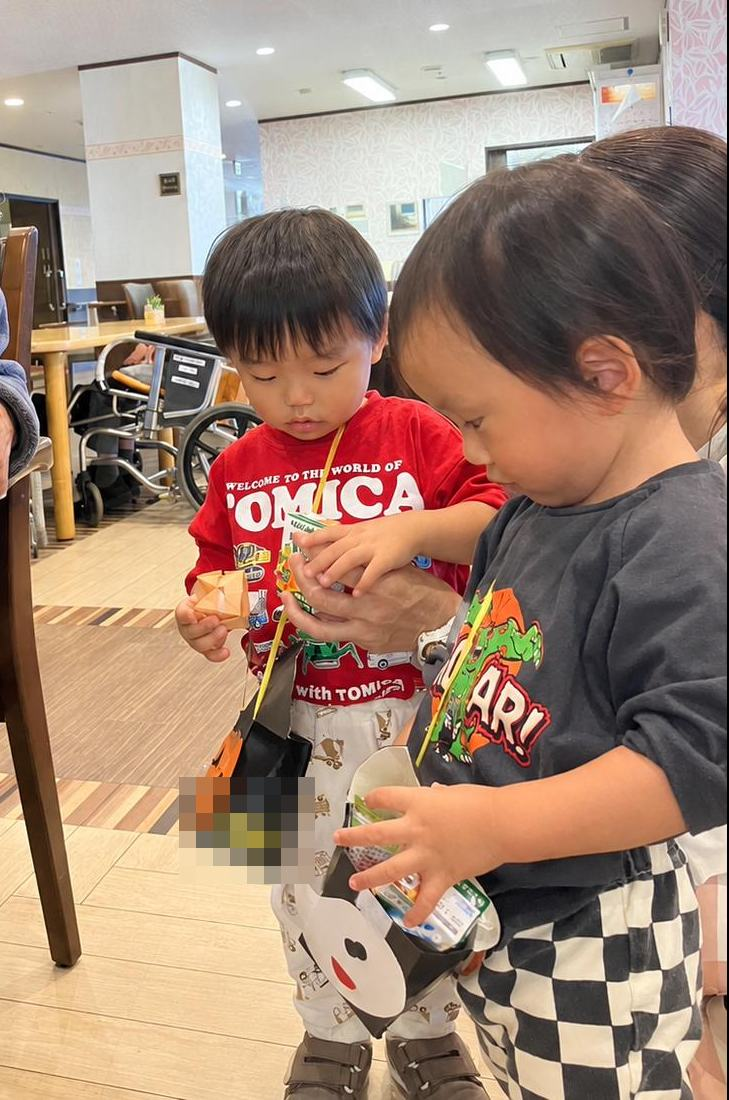
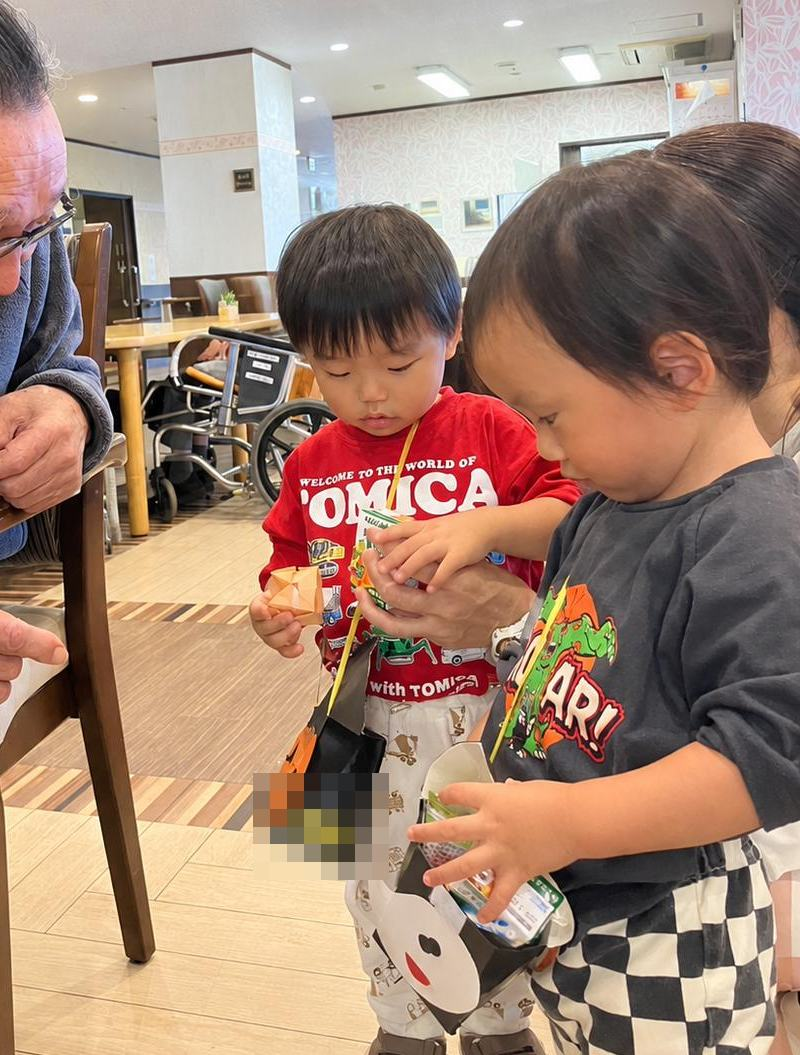
Add files via upload

diff --git a/life.html b/life.html
@@ -12,7 +12,7 @@
 <link rel="preconnect" href="https://fonts.gstatic.com" crossorigin>
 <link href="https://fonts.googleapis.com/css2?family=Zen+Maru+Gothic:wght@500;700&display=swap" rel="stylesheet">
 <link href="https://fonts.googleapis.com/css2?family=Zen+Kurenaido&display=swap&text=%E3%81%98%E3%81%BF%E3%82%82%E3%82%B9%E3%83%8A%E3%83%AA%E3%83%BC" rel="stylesheet">
-<link rel="stylesheet" href="style.css?v=202610301538">
+<link rel="stylesheet" href="style.css?v=202610301600">
 </head>
 <body>
 <!--
@@ -96,7 +96,7 @@
     <p class="lede">0・1・2歳の子どもたちが、無理のないリズムで過ごせるようにしています。</p>
     <!-- ▼差し替え：園から「一日の流れ（時刻と内容）」と「月ごとの行事」が届いたら、さくらナースリーと同じ形の表にして入れます -->
     <div class="prep"><strong>一日の流れ・年間行事の表は、ただいま準備中です。</strong><br>畑での収穫や製作あそび、お散歩、ハロウィンなど、季節ごとの体験を大切にしています。くわしくは、見学のときにおたずねください。</div>
-    <div class="polas" style="margin-top:2em"><figure class="pola"><img src="harvest2.jpg" style="object-position:45% 55%" alt="畑の野菜にふれる子どもたち" loading="lazy"><figcaption>野菜の収穫</figcaption></figure><figure class="pola"><img src="craft.jpg" style="object-position:72% 30%" alt="ひまわりの絵を作る製作あそび" loading="lazy"><figcaption>製作あそび</figcaption></figure><figure class="pola"><img src="elder.jpg" style="object-position:40% 40%" alt="保育者と手をつなぐ子ども" loading="lazy"><figcaption>ふれあいのひととき</figcaption></figure><figure class="pola"><img src="halloween.jpg" style="object-position:55% 25%" alt="ハロウィンのお菓子をもらう子どもたち" loading="lazy"><figcaption>ハロウィン</figcaption></figure><figure class="pola"><img src="tree.jpg" style="object-position:45% 50%" alt="お散歩で木の枝に手をのばす子ども" loading="lazy"><figcaption>お散歩</figcaption></figure><figure class="pola"><img src="nap.jpg" style="object-position:50% 50%" alt="お昼寝の時間" loading="lazy"><figcaption>お昼寝</figcaption></figure></div>
+    <div class="polas" style="margin-top:2em"><figure class="pola"><img src="harvest2.jpg" style="object-position:45% 55%" alt="畑の野菜にふれる子どもたち" loading="lazy"><figcaption>野菜の収穫</figcaption></figure><figure class="pola"><img src="craft.jpg" style="object-position:72% 30%" alt="ひまわりの絵を作る製作あそび" loading="lazy"><figcaption>製作あそび</figcaption></figure><figure class="pola"><img src="elder.jpg" style="object-position:55% 55%" alt="おばあちゃんとふれあう子ども" loading="lazy"><figcaption>おじいちゃん・おばあちゃんと</figcaption></figure><figure class="pola"><img src="halloween.jpg" style="object-position:50% 30%" alt="ハロウィンのお菓子をもらう子どもたち" loading="lazy"><figcaption>ハロウィン</figcaption></figure><figure class="pola"><img src="tree.jpg" style="object-position:45% 50%" alt="お散歩で木の枝に手をのばす子ども" loading="lazy"><figcaption>お散歩</figcaption></figure><figure class="pola"><img src="nap.jpg" style="object-position:50% 50%" alt="お昼寝の時間" loading="lazy"><figcaption>お昼寝</figcaption></figure></div>
     <a class="insta" id="btn-insta" href="https://www.instagram.com/momi_jiiiii/" target="_blank" rel="noopener">
       <span class="insta__ico" aria-hidden="true"><svg viewBox="0 0 24 24" fill="none" stroke="#fff" stroke-width="2"><rect x="3" y="3" width="18" height="18" rx="5"/><circle cx="12" cy="12" r="4"/><circle cx="17.5" cy="6.5" r="1" fill="#fff" stroke="none"/></svg></span>
       <span><strong>もみじナースリーのInstagram</strong><small>@momi_jiiiii　日々のようすを発信しています</small></span>
@@ -106,7 +106,7 @@
 <!-- ===== 園のようす（写真が流れる帯） ===== -->
 <section class="strip strip--nocap" aria-label="園のようす">
   <h2 class="strip__ttl">園のようす</h2>
-  <div class="strip__track"><figure class="strip__item"><img src="harvest1.jpg" style="object-position:35% 45%" alt="畑で野菜を収穫する子どもと保育者" loading="lazy"></figure><figure class="strip__item"><img src="craft.jpg" style="object-position:72% 30%" alt="ひまわりの絵を作る製作あそび" loading="lazy"></figure><figure class="strip__item"><img src="balloon.jpg" style="object-position:45% 70%" alt="バルーンの下で遊ぶ子どもたち" loading="lazy"></figure><figure class="strip__item"><img src="cars.jpg" style="object-position:50% 50%" alt="くるまのおもちゃで遊ぶ子どもたち" loading="lazy"></figure><figure class="strip__item"><img src="lunch.jpg" style="object-position:45% 22%" alt="給食を食べる子ども" loading="lazy"></figure><figure class="strip__item"><img src="slide.jpg" style="object-position:50% 42%" alt="すべり台で遊ぶ子どもたち" loading="lazy"></figure><figure class="strip__item"><img src="runin.jpg" style="object-position:50% 48%" alt="保育室をかけっこする子どもたち" loading="lazy"></figure><figure class="strip__item"><img src="tree.jpg" style="object-position:45% 50%" alt="お散歩で木の枝に手をのばす子ども" loading="lazy"></figure><figure class="strip__item"><img src="toys.jpg" style="object-position:50% 22%" alt="おもちゃで遊ぶ子どもたち" loading="lazy"></figure><figure class="strip__item"><img src="walk.jpg" style="object-position:45% 45%" alt="保育者と手をつないでお散歩" loading="lazy"></figure><figure class="strip__item"><img src="runout.jpg" style="object-position:50% 38%" alt="広場をかけっこする子どもたち" loading="lazy"></figure><figure class="strip__item"><img src="halloween.jpg" style="object-position:55% 25%" alt="ハロウィンのお菓子をもらう子どもたち" loading="lazy"></figure><figure class="strip__item"><img src="nap.jpg" style="object-position:50% 50%" alt="お昼寝の時間" loading="lazy"></figure><figure class="strip__item"><img src="elder.jpg" style="object-position:40% 40%" alt="保育者と手をつなぐ子ども" loading="lazy"></figure><figure class="strip__item"><img src="harvest2.jpg" style="object-position:45% 55%" alt="畑の野菜にふれる子どもたち" loading="lazy"></figure><div class="strip__dup" aria-hidden="true"><figure class="strip__item"><img src="harvest1.jpg" style="object-position:35% 45%" alt="" aria-hidden="true" loading="lazy"></figure><figure class="strip__item"><img src="craft.jpg" style="object-position:72% 30%" alt="" aria-hidden="true" loading="lazy"></figure><figure class="strip__item"><img src="balloon.jpg" style="object-position:45% 70%" alt="" aria-hidden="true" loading="lazy"></figure><figure class="strip__item"><img src="cars.jpg" style="object-position:50% 50%" alt="" aria-hidden="true" loading="lazy"></figure><figure class="strip__item"><img src="lunch.jpg" style="object-position:45% 22%" alt="" aria-hidden="true" loading="lazy"></figure><figure class="strip__item"><img src="slide.jpg" style="object-position:50% 42%" alt="" aria-hidden="true" loading="lazy"></figure><figure class="strip__item"><img src="runin.jpg" style="object-position:50% 48%" alt="" aria-hidden="true" loading="lazy"></figure><figure class="strip__item"><img src="tree.jpg" style="object-position:45% 50%" alt="" aria-hidden="true" loading="lazy"></figure><figure class="strip__item"><img src="toys.jpg" style="object-position:50% 22%" alt="" aria-hidden="true" loading="lazy"></figure><figure class="strip__item"><img src="walk.jpg" style="object-position:45% 45%" alt="" aria-hidden="true" loading="lazy"></figure><figure class="strip__item"><img src="runout.jpg" style="object-position:50% 38%" alt="" aria-hidden="true" loading="lazy"></figure><figure class="strip__item"><img src="halloween.jpg" style="object-position:55% 25%" alt="" aria-hidden="true" loading="lazy"></figure><figure class="strip__item"><img src="nap.jpg" style="object-position:50% 50%" alt="" aria-hidden="true" loading="lazy"></figure><figure class="strip__item"><img src="elder.jpg" style="object-position:40% 40%" alt="" aria-hidden="true" loading="lazy"></figure><figure class="strip__item"><img src="harvest2.jpg" style="object-position:45% 55%" alt="" aria-hidden="true" loading="lazy"></figure></div></div>
+  <div class="strip__track"><figure class="strip__item"><img src="harvest1.jpg" style="object-position:35% 45%" alt="畑で野菜を収穫する子どもと保育者" loading="lazy"></figure><figure class="strip__item"><img src="craft.jpg" style="object-position:72% 30%" alt="ひまわりの絵を作る製作あそび" loading="lazy"></figure><figure class="strip__item"><img src="balloon.jpg" style="object-position:45% 70%" alt="バルーンの下で遊ぶ子どもたち" loading="lazy"></figure><figure class="strip__item"><img src="cars.jpg" style="object-position:50% 50%" alt="くるまのおもちゃで遊ぶ子どもたち" loading="lazy"></figure><figure class="strip__item"><img src="lunch.jpg" style="object-position:45% 22%" alt="給食を食べる子ども" loading="lazy"></figure><figure class="strip__item"><img src="slide.jpg" style="object-position:50% 42%" alt="すべり台で遊ぶ子どもたち" loading="lazy"></figure><figure class="strip__item"><img src="runin.jpg" style="object-position:50% 48%" alt="保育室をかけっこする子どもたち" loading="lazy"></figure><figure class="strip__item"><img src="tree.jpg" style="object-position:45% 50%" alt="お散歩で木の枝に手をのばす子ども" loading="lazy"></figure><figure class="strip__item"><img src="toys.jpg" style="object-position:50% 22%" alt="おもちゃで遊ぶ子どもたち" loading="lazy"></figure><figure class="strip__item"><img src="walk.jpg" style="object-position:45% 45%" alt="保育者と手をつないでお散歩" loading="lazy"></figure><figure class="strip__item"><img src="runout.jpg" style="object-position:50% 38%" alt="広場をかけっこする子どもたち" loading="lazy"></figure><figure class="strip__item"><img src="halloween.jpg" style="object-position:50% 30%" alt="ハロウィンのお菓子をもらう子どもたち" loading="lazy"></figure><figure class="strip__item"><img src="nap.jpg" style="object-position:50% 50%" alt="お昼寝の時間" loading="lazy"></figure><figure class="strip__item"><img src="elder.jpg" style="object-position:55% 55%" alt="おばあちゃんとふれあう子ども" loading="lazy"></figure><figure class="strip__item"><img src="harvest2.jpg" style="object-position:45% 55%" alt="畑の野菜にふれる子どもたち" loading="lazy"></figure><div class="strip__dup" aria-hidden="true"><figure class="strip__item"><img src="harvest1.jpg" style="object-position:35% 45%" alt="" aria-hidden="true" loading="lazy"></figure><figure class="strip__item"><img src="craft.jpg" style="object-position:72% 30%" alt="" aria-hidden="true" loading="lazy"></figure><figure class="strip__item"><img src="balloon.jpg" style="object-position:45% 70%" alt="" aria-hidden="true" loading="lazy"></figure><figure class="strip__item"><img src="cars.jpg" style="object-position:50% 50%" alt="" aria-hidden="true" loading="lazy"></figure><figure class="strip__item"><img src="lunch.jpg" style="object-position:45% 22%" alt="" aria-hidden="true" loading="lazy"></figure><figure class="strip__item"><img src="slide.jpg" style="object-position:50% 42%" alt="" aria-hidden="true" loading="lazy"></figure><figure class="strip__item"><img src="runin.jpg" style="object-position:50% 48%" alt="" aria-hidden="true" loading="lazy"></figure><figure class="strip__item"><img src="tree.jpg" style="object-position:45% 50%" alt="" aria-hidden="true" loading="lazy"></figure><figure class="strip__item"><img src="toys.jpg" style="object-position:50% 22%" alt="" aria-hidden="true" loading="lazy"></figure><figure class="strip__item"><img src="walk.jpg" style="object-position:45% 45%" alt="" aria-hidden="true" loading="lazy"></figure><figure class="strip__item"><img src="runout.jpg" style="object-position:50% 38%" alt="" aria-hidden="true" loading="lazy"></figure><figure class="strip__item"><img src="halloween.jpg" style="object-position:50% 30%" alt="" aria-hidden="true" loading="lazy"></figure><figure class="strip__item"><img src="nap.jpg" style="object-position:50% 50%" alt="" aria-hidden="true" loading="lazy"></figure><figure class="strip__item"><img src="elder.jpg" style="object-position:55% 55%" alt="" aria-hidden="true" loading="lazy"></figure><figure class="strip__item"><img src="harvest2.jpg" style="object-position:45% 55%" alt="" aria-hidden="true" loading="lazy"></figure></div></div>
 </section>
 <!-- ===== 最後のご相談 ===== -->
 <section class="cta" aria-labelledby="cta-title">

diff --git a/news.html b/news.html
@@ -12,7 +12,7 @@
 <link rel="preconnect" href="https://fonts.gstatic.com" crossorigin>
 <link href="https://fonts.googleapis.com/css2?family=Zen+Maru+Gothic:wght@500;700&display=swap" rel="stylesheet">
 <link href="https://fonts.googleapis.com/css2?family=Zen+Kurenaido&display=swap&text=%E3%81%98%E3%81%BF%E3%82%82%E3%82%B9%E3%83%8A%E3%83%AA%E3%83%BC" rel="stylesheet">
-<link rel="stylesheet" href="style.css?v=202610301538">
+<link rel="stylesheet" href="style.css?v=202610301600">
 </head>
 <body>
 <!--
@@ -53,7 +53,7 @@
       <p class="phero__lead">園の見学や入園のご案内など、もみじナースリーからのお知らせです。</p>
     </div>
     <div class="phero__photo">
-      <figure class="pic pic--main"><img src="halloween.jpg" style="object-position:55% 25%" alt="ハロウィンのお菓子をもらう子どもたち" width="1200" height="800"></figure>
+      <figure class="pic pic--main"><img src="halloween.jpg" style="object-position:50% 30%" alt="ハロウィンのお菓子をもらう子どもたち" width="1200" height="800"></figure>
       <figure class="pic pic--sub"><img src="runout.jpg" style="object-position:50% 38%" alt="広場をかけっこする子どもたち" loading="lazy"></figure>
     </div>
   </div>
@@ -107,7 +107,7 @@
 <!-- ===== 園のようす（写真が流れる帯） ===== -->
 <section class="strip strip--nocap" aria-label="園のようす">
   <h2 class="strip__ttl">園のようす</h2>
-  <div class="strip__track"><figure class="strip__item"><img src="harvest1.jpg" style="object-position:35% 45%" alt="畑で野菜を収穫する子どもと保育者" loading="lazy"></figure><figure class="strip__item"><img src="craft.jpg" style="object-position:72% 30%" alt="ひまわりの絵を作る製作あそび" loading="lazy"></figure><figure class="strip__item"><img src="balloon.jpg" style="object-position:45% 70%" alt="バルーンの下で遊ぶ子どもたち" loading="lazy"></figure><figure class="strip__item"><img src="cars.jpg" style="object-position:50% 50%" alt="くるまのおもちゃで遊ぶ子どもたち" loading="lazy"></figure><figure class="strip__item"><img src="lunch.jpg" style="object-position:45% 22%" alt="給食を食べる子ども" loading="lazy"></figure><figure class="strip__item"><img src="slide.jpg" style="object-position:50% 42%" alt="すべり台で遊ぶ子どもたち" loading="lazy"></figure><figure class="strip__item"><img src="runin.jpg" style="object-position:50% 48%" alt="保育室をかけっこする子どもたち" loading="lazy"></figure><figure class="strip__item"><img src="tree.jpg" style="object-position:45% 50%" alt="お散歩で木の枝に手をのばす子ども" loading="lazy"></figure><figure class="strip__item"><img src="toys.jpg" style="object-position:50% 22%" alt="おもちゃで遊ぶ子どもたち" loading="lazy"></figure><figure class="strip__item"><img src="walk.jpg" style="object-position:45% 45%" alt="保育者と手をつないでお散歩" loading="lazy"></figure><figure class="strip__item"><img src="runout.jpg" style="object-position:50% 38%" alt="広場をかけっこする子どもたち" loading="lazy"></figure><figure class="strip__item"><img src="halloween.jpg" style="object-position:55% 25%" alt="ハロウィンのお菓子をもらう子どもたち" loading="lazy"></figure><figure class="strip__item"><img src="nap.jpg" style="object-position:50% 50%" alt="お昼寝の時間" loading="lazy"></figure><figure class="strip__item"><img src="elder.jpg" style="object-position:40% 40%" alt="保育者と手をつなぐ子ども" loading="lazy"></figure><figure class="strip__item"><img src="harvest2.jpg" style="object-position:45% 55%" alt="畑の野菜にふれる子どもたち" loading="lazy"></figure><div class="strip__dup" aria-hidden="true"><figure class="strip__item"><img src="harvest1.jpg" style="object-position:35% 45%" alt="" aria-hidden="true" loading="lazy"></figure><figure class="strip__item"><img src="craft.jpg" style="object-position:72% 30%" alt="" aria-hidden="true" loading="lazy"></figure><figure class="strip__item"><img src="balloon.jpg" style="object-position:45% 70%" alt="" aria-hidden="true" loading="lazy"></figure><figure class="strip__item"><img src="cars.jpg" style="object-position:50% 50%" alt="" aria-hidden="true" loading="lazy"></figure><figure class="strip__item"><img src="lunch.jpg" style="object-position:45% 22%" alt="" aria-hidden="true" loading="lazy"></figure><figure class="strip__item"><img src="slide.jpg" style="object-position:50% 42%" alt="" aria-hidden="true" loading="lazy"></figure><figure class="strip__item"><img src="runin.jpg" style="object-position:50% 48%" alt="" aria-hidden="true" loading="lazy"></figure><figure class="strip__item"><img src="tree.jpg" style="object-position:45% 50%" alt="" aria-hidden="true" loading="lazy"></figure><figure class="strip__item"><img src="toys.jpg" style="object-position:50% 22%" alt="" aria-hidden="true" loading="lazy"></figure><figure class="strip__item"><img src="walk.jpg" style="object-position:45% 45%" alt="" aria-hidden="true" loading="lazy"></figure><figure class="strip__item"><img src="runout.jpg" style="object-position:50% 38%" alt="" aria-hidden="true" loading="lazy"></figure><figure class="strip__item"><img src="halloween.jpg" style="object-position:55% 25%" alt="" aria-hidden="true" loading="lazy"></figure><figure class="strip__item"><img src="nap.jpg" style="object-position:50% 50%" alt="" aria-hidden="true" loading="lazy"></figure><figure class="strip__item"><img src="elder.jpg" style="object-position:40% 40%" alt="" aria-hidden="true" loading="lazy"></figure><figure class="strip__item"><img src="harvest2.jpg" style="object-position:45% 55%" alt="" aria-hidden="true" loading="lazy"></figure></div></div>
+  <div class="strip__track"><figure class="strip__item"><img src="harvest1.jpg" style="object-position:35% 45%" alt="畑で野菜を収穫する子どもと保育者" loading="lazy"></figure><figure class="strip__item"><img src="craft.jpg" style="object-position:72% 30%" alt="ひまわりの絵を作る製作あそび" loading="lazy"></figure><figure class="strip__item"><img src="balloon.jpg" style="object-position:45% 70%" alt="バルーンの下で遊ぶ子どもたち" loading="lazy"></figure><figure class="strip__item"><img src="cars.jpg" style="object-position:50% 50%" alt="くるまのおもちゃで遊ぶ子どもたち" loading="lazy"></figure><figure class="strip__item"><img src="lunch.jpg" style="object-position:45% 22%" alt="給食を食べる子ども" loading="lazy"></figure><figure class="strip__item"><img src="slide.jpg" style="object-position:50% 42%" alt="すべり台で遊ぶ子どもたち" loading="lazy"></figure><figure class="strip__item"><img src="runin.jpg" style="object-position:50% 48%" alt="保育室をかけっこする子どもたち" loading="lazy"></figure><figure class="strip__item"><img src="tree.jpg" style="object-position:45% 50%" alt="お散歩で木の枝に手をのばす子ども" loading="lazy"></figure><figure class="strip__item"><img src="toys.jpg" style="object-position:50% 22%" alt="おもちゃで遊ぶ子どもたち" loading="lazy"></figure><figure class="strip__item"><img src="walk.jpg" style="object-position:45% 45%" alt="保育者と手をつないでお散歩" loading="lazy"></figure><figure class="strip__item"><img src="runout.jpg" style="object-position:50% 38%" alt="広場をかけっこする子どもたち" loading="lazy"></figure><figure class="strip__item"><img src="halloween.jpg" style="object-position:50% 30%" alt="ハロウィンのお菓子をもらう子どもたち" loading="lazy"></figure><figure class="strip__item"><img src="nap.jpg" style="object-position:50% 50%" alt="お昼寝の時間" loading="lazy"></figure><figure class="strip__item"><img src="elder.jpg" style="object-position:55% 55%" alt="おばあちゃんとふれあう子ども" loading="lazy"></figure><figure class="strip__item"><img src="harvest2.jpg" style="object-position:45% 55%" alt="畑の野菜にふれる子どもたち" loading="lazy"></figure><div class="strip__dup" aria-hidden="true"><figure class="strip__item"><img src="harvest1.jpg" style="object-position:35% 45%" alt="" aria-hidden="true" loading="lazy"></figure><figure class="strip__item"><img src="craft.jpg" style="object-position:72% 30%" alt="" aria-hidden="true" loading="lazy"></figure><figure class="strip__item"><img src="balloon.jpg" style="object-position:45% 70%" alt="" aria-hidden="true" loading="lazy"></figure><figure class="strip__item"><img src="cars.jpg" style="object-position:50% 50%" alt="" aria-hidden="true" loading="lazy"></figure><figure class="strip__item"><img src="lunch.jpg" style="object-position:45% 22%" alt="" aria-hidden="true" loading="lazy"></figure><figure class="strip__item"><img src="slide.jpg" style="object-position:50% 42%" alt="" aria-hidden="true" loading="lazy"></figure><figure class="strip__item"><img src="runin.jpg" style="object-position:50% 48%" alt="" aria-hidden="true" loading="lazy"></figure><figure class="strip__item"><img src="tree.jpg" style="object-position:45% 50%" alt="" aria-hidden="true" loading="lazy"></figure><figure class="strip__item"><img src="toys.jpg" style="object-position:50% 22%" alt="" aria-hidden="true" loading="lazy"></figure><figure class="strip__item"><img src="walk.jpg" style="object-position:45% 45%" alt="" aria-hidden="true" loading="lazy"></figure><figure class="strip__item"><img src="runout.jpg" style="object-position:50% 38%" alt="" aria-hidden="true" loading="lazy"></figure><figure class="strip__item"><img src="halloween.jpg" style="object-position:50% 30%" alt="" aria-hidden="true" loading="lazy"></figure><figure class="strip__item"><img src="nap.jpg" style="object-position:50% 50%" alt="" aria-hidden="true" loading="lazy"></figure><figure class="strip__item"><img src="elder.jpg" style="object-position:55% 55%" alt="" aria-hidden="true" loading="lazy"></figure><figure class="strip__item"><img src="harvest2.jpg" style="object-position:45% 55%" alt="" aria-hidden="true" loading="lazy"></figure></div></div>
 </section>
 <!-- ===== 最後のご相談 ===== -->
 <section class="cta" aria-labelledby="cta-title">

diff --git a/index.html b/index.html
@@ -12,7 +12,7 @@
 <link rel="preconnect" href="https://fonts.gstatic.com" crossorigin>
 <link href="https://fonts.googleapis.com/css2?family=Zen+Maru+Gothic:wght@500;700&display=swap" rel="stylesheet">
 <link href="https://fonts.googleapis.com/css2?family=Zen+Kurenaido&display=swap&text=%E3%80%81%E3%80%82%E3%81%86%E3%81%8D%E3%81%8F%E3%81%95%E3%81%98%E3%81%A7%E3%81%AA%E3%81%BF%E3%82%82%E3%82%8A%E3%82%B9%E3%83%8A%E3%83%AA%E3%83%BC%E5%9C%92%E5%A4%A7%E5%AF%84%E5%B0%8F%E6%B7%BB" rel="stylesheet">
-<link rel="stylesheet" href="style.css?v=202610301538">
+<link rel="stylesheet" href="style.css?v=202610301600">
 </head>
 <body>
 <!--
@@ -162,7 +162,7 @@
 <!-- ===== 園のようす（写真が流れる帯） ===== -->
 <section class="strip strip--nocap" aria-label="園のようす">
   <h2 class="strip__ttl">園のようす</h2>
-  <div class="strip__track"><figure class="strip__item"><img src="harvest1.jpg" style="object-position:35% 45%" alt="畑で野菜を収穫する子どもと保育者" loading="lazy"></figure><figure class="strip__item"><img src="craft.jpg" style="object-position:72% 30%" alt="ひまわりの絵を作る製作あそび" loading="lazy"></figure><figure class="strip__item"><img src="balloon.jpg" style="object-position:45% 70%" alt="バルーンの下で遊ぶ子どもたち" loading="lazy"></figure><figure class="strip__item"><img src="cars.jpg" style="object-position:50% 50%" alt="くるまのおもちゃで遊ぶ子どもたち" loading="lazy"></figure><figure class="strip__item"><img src="lunch.jpg" style="object-position:45% 22%" alt="給食を食べる子ども" loading="lazy"></figure><figure class="strip__item"><img src="slide.jpg" style="object-position:50% 42%" alt="すべり台で遊ぶ子どもたち" loading="lazy"></figure><figure class="strip__item"><img src="runin.jpg" style="object-position:50% 48%" alt="保育室をかけっこする子どもたち" loading="lazy"></figure><figure class="strip__item"><img src="tree.jpg" style="object-position:45% 50%" alt="お散歩で木の枝に手をのばす子ども" loading="lazy"></figure><figure class="strip__item"><img src="toys.jpg" style="object-position:50% 22%" alt="おもちゃで遊ぶ子どもたち" loading="lazy"></figure><figure class="strip__item"><img src="walk.jpg" style="object-position:45% 45%" alt="保育者と手をつないでお散歩" loading="lazy"></figure><figure class="strip__item"><img src="runout.jpg" style="object-position:50% 38%" alt="広場をかけっこする子どもたち" loading="lazy"></figure><figure class="strip__item"><img src="halloween.jpg" style="object-position:55% 25%" alt="ハロウィンのお菓子をもらう子どもたち" loading="lazy"></figure><figure class="strip__item"><img src="nap.jpg" style="object-position:50% 50%" alt="お昼寝の時間" loading="lazy"></figure><figure class="strip__item"><img src="elder.jpg" style="object-position:40% 40%" alt="保育者と手をつなぐ子ども" loading="lazy"></figure><figure class="strip__item"><img src="harvest2.jpg" style="object-position:45% 55%" alt="畑の野菜にふれる子どもたち" loading="lazy"></figure><div class="strip__dup" aria-hidden="true"><figure class="strip__item"><img src="harvest1.jpg" style="object-position:35% 45%" alt="" aria-hidden="true" loading="lazy"></figure><figure class="strip__item"><img src="craft.jpg" style="object-position:72% 30%" alt="" aria-hidden="true" loading="lazy"></figure><figure class="strip__item"><img src="balloon.jpg" style="object-position:45% 70%" alt="" aria-hidden="true" loading="lazy"></figure><figure class="strip__item"><img src="cars.jpg" style="object-position:50% 50%" alt="" aria-hidden="true" loading="lazy"></figure><figure class="strip__item"><img src="lunch.jpg" style="object-position:45% 22%" alt="" aria-hidden="true" loading="lazy"></figure><figure class="strip__item"><img src="slide.jpg" style="object-position:50% 42%" alt="" aria-hidden="true" loading="lazy"></figure><figure class="strip__item"><img src="runin.jpg" style="object-position:50% 48%" alt="" aria-hidden="true" loading="lazy"></figure><figure class="strip__item"><img src="tree.jpg" style="object-position:45% 50%" alt="" aria-hidden="true" loading="lazy"></figure><figure class="strip__item"><img src="toys.jpg" style="object-position:50% 22%" alt="" aria-hidden="true" loading="lazy"></figure><figure class="strip__item"><img src="walk.jpg" style="object-position:45% 45%" alt="" aria-hidden="true" loading="lazy"></figure><figure class="strip__item"><img src="runout.jpg" style="object-position:50% 38%" alt="" aria-hidden="true" loading="lazy"></figure><figure class="strip__item"><img src="halloween.jpg" style="object-position:55% 25%" alt="" aria-hidden="true" loading="lazy"></figure><figure class="strip__item"><img src="nap.jpg" style="object-position:50% 50%" alt="" aria-hidden="true" loading="lazy"></figure><figure class="strip__item"><img src="elder.jpg" style="object-position:40% 40%" alt="" aria-hidden="true" loading="lazy"></figure><figure class="strip__item"><img src="harvest2.jpg" style="object-position:45% 55%" alt="" aria-hidden="true" loading="lazy"></figure></div></div>
+  <div class="strip__track"><figure class="strip__item"><img src="harvest1.jpg" style="object-position:35% 45%" alt="畑で野菜を収穫する子どもと保育者" loading="lazy"></figure><figure class="strip__item"><img src="craft.jpg" style="object-position:72% 30%" alt="ひまわりの絵を作る製作あそび" loading="lazy"></figure><figure class="strip__item"><img src="balloon.jpg" style="object-position:45% 70%" alt="バルーンの下で遊ぶ子どもたち" loading="lazy"></figure><figure class="strip__item"><img src="cars.jpg" style="object-position:50% 50%" alt="くるまのおもちゃで遊ぶ子どもたち" loading="lazy"></figure><figure class="strip__item"><img src="lunch.jpg" style="object-position:45% 22%" alt="給食を食べる子ども" loading="lazy"></figure><figure class="strip__item"><img src="slide.jpg" style="object-position:50% 42%" alt="すべり台で遊ぶ子どもたち" loading="lazy"></figure><figure class="strip__item"><img src="runin.jpg" style="object-position:50% 48%" alt="保育室をかけっこする子どもたち" loading="lazy"></figure><figure class="strip__item"><img src="tree.jpg" style="object-position:45% 50%" alt="お散歩で木の枝に手をのばす子ども" loading="lazy"></figure><figure class="strip__item"><img src="toys.jpg" style="object-position:50% 22%" alt="おもちゃで遊ぶ子どもたち" loading="lazy"></figure><figure class="strip__item"><img src="walk.jpg" style="object-position:45% 45%" alt="保育者と手をつないでお散歩" loading="lazy"></figure><figure class="strip__item"><img src="runout.jpg" style="object-position:50% 38%" alt="広場をかけっこする子どもたち" loading="lazy"></figure><figure class="strip__item"><img src="halloween.jpg" style="object-position:50% 30%" alt="ハロウィンのお菓子をもらう子どもたち" loading="lazy"></figure><figure class="strip__item"><img src="nap.jpg" style="object-position:50% 50%" alt="お昼寝の時間" loading="lazy"></figure><figure class="strip__item"><img src="elder.jpg" style="object-position:55% 55%" alt="おばあちゃんとふれあう子ども" loading="lazy"></figure><figure class="strip__item"><img src="harvest2.jpg" style="object-position:45% 55%" alt="畑の野菜にふれる子どもたち" loading="lazy"></figure><div class="strip__dup" aria-hidden="true"><figure class="strip__item"><img src="harvest1.jpg" style="object-position:35% 45%" alt="" aria-hidden="true" loading="lazy"></figure><figure class="strip__item"><img src="craft.jpg" style="object-position:72% 30%" alt="" aria-hidden="true" loading="lazy"></figure><figure class="strip__item"><img src="balloon.jpg" style="object-position:45% 70%" alt="" aria-hidden="true" loading="lazy"></figure><figure class="strip__item"><img src="cars.jpg" style="object-position:50% 50%" alt="" aria-hidden="true" loading="lazy"></figure><figure class="strip__item"><img src="lunch.jpg" style="object-position:45% 22%" alt="" aria-hidden="true" loading="lazy"></figure><figure class="strip__item"><img src="slide.jpg" style="object-position:50% 42%" alt="" aria-hidden="true" loading="lazy"></figure><figure class="strip__item"><img src="runin.jpg" style="object-position:50% 48%" alt="" aria-hidden="true" loading="lazy"></figure><figure class="strip__item"><img src="tree.jpg" style="object-position:45% 50%" alt="" aria-hidden="true" loading="lazy"></figure><figure class="strip__item"><img src="toys.jpg" style="object-position:50% 22%" alt="" aria-hidden="true" loading="lazy"></figure><figure class="strip__item"><img src="walk.jpg" style="object-position:45% 45%" alt="" aria-hidden="true" loading="lazy"></figure><figure class="strip__item"><img src="runout.jpg" style="object-position:50% 38%" alt="" aria-hidden="true" loading="lazy"></figure><figure class="strip__item"><img src="halloween.jpg" style="object-position:50% 30%" alt="" aria-hidden="true" loading="lazy"></figure><figure class="strip__item"><img src="nap.jpg" style="object-position:50% 50%" alt="" aria-hidden="true" loading="lazy"></figure><figure class="strip__item"><img src="elder.jpg" style="object-position:55% 55%" alt="" aria-hidden="true" loading="lazy"></figure><figure class="strip__item"><img src="harvest2.jpg" style="object-position:45% 55%" alt="" aria-hidden="true" loading="lazy"></figure></div></div>
 </section>
 <!-- ===== 最後のご相談 ===== -->
 <section class="cta" aria-labelledby="cta-title">

diff --git a/guide.html b/guide.html
@@ -12,7 +12,7 @@
 <link rel="preconnect" href="https://fonts.gstatic.com" crossorigin>
 <link href="https://fonts.googleapis.com/css2?family=Zen+Maru+Gothic:wght@500;700&display=swap" rel="stylesheet">
 <link href="https://fonts.googleapis.com/css2?family=Zen+Kurenaido&display=swap&text=%E3%81%98%E3%81%BF%E3%82%82%E3%82%B9%E3%83%8A%E3%83%AA%E3%83%BC" rel="stylesheet">
-<link rel="stylesheet" href="style.css?v=202610301538">
+<link rel="stylesheet" href="style.css?v=202610301600">
 </head>
 <body>
 <!--
@@ -121,7 +121,7 @@
 <!-- ===== 園のようす（写真が流れる帯） ===== -->
 <section class="strip strip--nocap" aria-label="園のようす">
   <h2 class="strip__ttl">園のようす</h2>
-  <div class="strip__track"><figure class="strip__item"><img src="harvest1.jpg" style="object-position:35% 45%" alt="畑で野菜を収穫する子どもと保育者" loading="lazy"></figure><figure class="strip__item"><img src="craft.jpg" style="object-position:72% 30%" alt="ひまわりの絵を作る製作あそび" loading="lazy"></figure><figure class="strip__item"><img src="balloon.jpg" style="object-position:45% 70%" alt="バルーンの下で遊ぶ子どもたち" loading="lazy"></figure><figure class="strip__item"><img src="cars.jpg" style="object-position:50% 50%" alt="くるまのおもちゃで遊ぶ子どもたち" loading="lazy"></figure><figure class="strip__item"><img src="lunch.jpg" style="object-position:45% 22%" alt="給食を食べる子ども" loading="lazy"></figure><figure class="strip__item"><img src="slide.jpg" style="object-position:50% 42%" alt="すべり台で遊ぶ子どもたち" loading="lazy"></figure><figure class="strip__item"><img src="runin.jpg" style="object-position:50% 48%" alt="保育室をかけっこする子どもたち" loading="lazy"></figure><figure class="strip__item"><img src="tree.jpg" style="object-position:45% 50%" alt="お散歩で木の枝に手をのばす子ども" loading="lazy"></figure><figure class="strip__item"><img src="toys.jpg" style="object-position:50% 22%" alt="おもちゃで遊ぶ子どもたち" loading="lazy"></figure><figure class="strip__item"><img src="walk.jpg" style="object-position:45% 45%" alt="保育者と手をつないでお散歩" loading="lazy"></figure><figure class="strip__item"><img src="runout.jpg" style="object-position:50% 38%" alt="広場をかけっこする子どもたち" loading="lazy"></figure><figure class="strip__item"><img src="halloween.jpg" style="object-position:55% 25%" alt="ハロウィンのお菓子をもらう子どもたち" loading="lazy"></figure><figure class="strip__item"><img src="nap.jpg" style="object-position:50% 50%" alt="お昼寝の時間" loading="lazy"></figure><figure class="strip__item"><img src="elder.jpg" style="object-position:40% 40%" alt="保育者と手をつなぐ子ども" loading="lazy"></figure><figure class="strip__item"><img src="harvest2.jpg" style="object-position:45% 55%" alt="畑の野菜にふれる子どもたち" loading="lazy"></figure><div class="strip__dup" aria-hidden="true"><figure class="strip__item"><img src="harvest1.jpg" style="object-position:35% 45%" alt="" aria-hidden="true" loading="lazy"></figure><figure class="strip__item"><img src="craft.jpg" style="object-position:72% 30%" alt="" aria-hidden="true" loading="lazy"></figure><figure class="strip__item"><img src="balloon.jpg" style="object-position:45% 70%" alt="" aria-hidden="true" loading="lazy"></figure><figure class="strip__item"><img src="cars.jpg" style="object-position:50% 50%" alt="" aria-hidden="true" loading="lazy"></figure><figure class="strip__item"><img src="lunch.jpg" style="object-position:45% 22%" alt="" aria-hidden="true" loading="lazy"></figure><figure class="strip__item"><img src="slide.jpg" style="object-position:50% 42%" alt="" aria-hidden="true" loading="lazy"></figure><figure class="strip__item"><img src="runin.jpg" style="object-position:50% 48%" alt="" aria-hidden="true" loading="lazy"></figure><figure class="strip__item"><img src="tree.jpg" style="object-position:45% 50%" alt="" aria-hidden="true" loading="lazy"></figure><figure class="strip__item"><img src="toys.jpg" style="object-position:50% 22%" alt="" aria-hidden="true" loading="lazy"></figure><figure class="strip__item"><img src="walk.jpg" style="object-position:45% 45%" alt="" aria-hidden="true" loading="lazy"></figure><figure class="strip__item"><img src="runout.jpg" style="object-position:50% 38%" alt="" aria-hidden="true" loading="lazy"></figure><figure class="strip__item"><img src="halloween.jpg" style="object-position:55% 25%" alt="" aria-hidden="true" loading="lazy"></figure><figure class="strip__item"><img src="nap.jpg" style="object-position:50% 50%" alt="" aria-hidden="true" loading="lazy"></figure><figure class="strip__item"><img src="elder.jpg" style="object-position:40% 40%" alt="" aria-hidden="true" loading="lazy"></figure><figure class="strip__item"><img src="harvest2.jpg" style="object-position:45% 55%" alt="" aria-hidden="true" loading="lazy"></figure></div></div>
+  <div class="strip__track"><figure class="strip__item"><img src="harvest1.jpg" style="object-position:35% 45%" alt="畑で野菜を収穫する子どもと保育者" loading="lazy"></figure><figure class="strip__item"><img src="craft.jpg" style="object-position:72% 30%" alt="ひまわりの絵を作る製作あそび" loading="lazy"></figure><figure class="strip__item"><img src="balloon.jpg" style="object-position:45% 70%" alt="バルーンの下で遊ぶ子どもたち" loading="lazy"></figure><figure class="strip__item"><img src="cars.jpg" style="object-position:50% 50%" alt="くるまのおもちゃで遊ぶ子どもたち" loading="lazy"></figure><figure class="strip__item"><img src="lunch.jpg" style="object-position:45% 22%" alt="給食を食べる子ども" loading="lazy"></figure><figure class="strip__item"><img src="slide.jpg" style="object-position:50% 42%" alt="すべり台で遊ぶ子どもたち" loading="lazy"></figure><figure class="strip__item"><img src="runin.jpg" style="object-position:50% 48%" alt="保育室をかけっこする子どもたち" loading="lazy"></figure><figure class="strip__item"><img src="tree.jpg" style="object-position:45% 50%" alt="お散歩で木の枝に手をのばす子ども" loading="lazy"></figure><figure class="strip__item"><img src="toys.jpg" style="object-position:50% 22%" alt="おもちゃで遊ぶ子どもたち" loading="lazy"></figure><figure class="strip__item"><img src="walk.jpg" style="object-position:45% 45%" alt="保育者と手をつないでお散歩" loading="lazy"></figure><figure class="strip__item"><img src="runout.jpg" style="object-position:50% 38%" alt="広場をかけっこする子どもたち" loading="lazy"></figure><figure class="strip__item"><img src="halloween.jpg" style="object-position:50% 30%" alt="ハロウィンのお菓子をもらう子どもたち" loading="lazy"></figure><figure class="strip__item"><img src="nap.jpg" style="object-position:50% 50%" alt="お昼寝の時間" loading="lazy"></figure><figure class="strip__item"><img src="elder.jpg" style="object-position:55% 55%" alt="おばあちゃんとふれあう子ども" loading="lazy"></figure><figure class="strip__item"><img src="harvest2.jpg" style="object-position:45% 55%" alt="畑の野菜にふれる子どもたち" loading="lazy"></figure><div class="strip__dup" aria-hidden="true"><figure class="strip__item"><img src="harvest1.jpg" style="object-position:35% 45%" alt="" aria-hidden="true" loading="lazy"></figure><figure class="strip__item"><img src="craft.jpg" style="object-position:72% 30%" alt="" aria-hidden="true" loading="lazy"></figure><figure class="strip__item"><img src="balloon.jpg" style="object-position:45% 70%" alt="" aria-hidden="true" loading="lazy"></figure><figure class="strip__item"><img src="cars.jpg" style="object-position:50% 50%" alt="" aria-hidden="true" loading="lazy"></figure><figure class="strip__item"><img src="lunch.jpg" style="object-position:45% 22%" alt="" aria-hidden="true" loading="lazy"></figure><figure class="strip__item"><img src="slide.jpg" style="object-position:50% 42%" alt="" aria-hidden="true" loading="lazy"></figure><figure class="strip__item"><img src="runin.jpg" style="object-position:50% 48%" alt="" aria-hidden="true" loading="lazy"></figure><figure class="strip__item"><img src="tree.jpg" style="object-position:45% 50%" alt="" aria-hidden="true" loading="lazy"></figure><figure class="strip__item"><img src="toys.jpg" style="object-position:50% 22%" alt="" aria-hidden="true" loading="lazy"></figure><figure class="strip__item"><img src="walk.jpg" style="object-position:45% 45%" alt="" aria-hidden="true" loading="lazy"></figure><figure class="strip__item"><img src="runout.jpg" style="object-position:50% 38%" alt="" aria-hidden="true" loading="lazy"></figure><figure class="strip__item"><img src="halloween.jpg" style="object-position:50% 30%" alt="" aria-hidden="true" loading="lazy"></figure><figure class="strip__item"><img src="nap.jpg" style="object-position:50% 50%" alt="" aria-hidden="true" loading="lazy"></figure><figure class="strip__item"><img src="elder.jpg" style="object-position:55% 55%" alt="" aria-hidden="true" loading="lazy"></figure><figure class="strip__item"><img src="harvest2.jpg" style="object-position:45% 55%" alt="" aria-hidden="true" loading="lazy"></figure></div></div>
 </section>
 <!-- ===== 最後のご相談 ===== -->
 <section class="cta" aria-labelledby="cta-title">

diff --git a/about.html b/about.html
@@ -12,7 +12,7 @@
 <link rel="preconnect" href="https://fonts.gstatic.com" crossorigin>
 <link href="https://fonts.googleapis.com/css2?family=Zen+Maru+Gothic:wght@500;700&display=swap" rel="stylesheet">
 <link href="https://fonts.googleapis.com/css2?family=Zen+Kurenaido&display=swap&text=%E3%81%98%E3%81%BF%E3%82%82%E3%82%B9%E3%83%8A%E3%83%AA%E3%83%BC" rel="stylesheet">
-<link rel="stylesheet" href="style.css?v=202610301538">
+<link rel="stylesheet" href="style.css?v=202610301600">
 </head>
 <body>
 <!--
@@ -89,7 +89,7 @@
 <!-- ===== 園のようす（写真が流れる帯） ===== -->
 <section class="strip strip--nocap" aria-label="園のようす">
   <h2 class="strip__ttl">園のようす</h2>
-  <div class="strip__track"><figure class="strip__item"><img src="harvest1.jpg" style="object-position:35% 45%" alt="畑で野菜を収穫する子どもと保育者" loading="lazy"></figure><figure class="strip__item"><img src="craft.jpg" style="object-position:72% 30%" alt="ひまわりの絵を作る製作あそび" loading="lazy"></figure><figure class="strip__item"><img src="balloon.jpg" style="object-position:45% 70%" alt="バルーンの下で遊ぶ子どもたち" loading="lazy"></figure><figure class="strip__item"><img src="cars.jpg" style="object-position:50% 50%" alt="くるまのおもちゃで遊ぶ子どもたち" loading="lazy"></figure><figure class="strip__item"><img src="lunch.jpg" style="object-position:45% 22%" alt="給食を食べる子ども" loading="lazy"></figure><figure class="strip__item"><img src="slide.jpg" style="object-position:50% 42%" alt="すべり台で遊ぶ子どもたち" loading="lazy"></figure><figure class="strip__item"><img src="runin.jpg" style="object-position:50% 48%" alt="保育室をかけっこする子どもたち" loading="lazy"></figure><figure class="strip__item"><img src="tree.jpg" style="object-position:45% 50%" alt="お散歩で木の枝に手をのばす子ども" loading="lazy"></figure><figure class="strip__item"><img src="toys.jpg" style="object-position:50% 22%" alt="おもちゃで遊ぶ子どもたち" loading="lazy"></figure><figure class="strip__item"><img src="walk.jpg" style="object-position:45% 45%" alt="保育者と手をつないでお散歩" loading="lazy"></figure><figure class="strip__item"><img src="runout.jpg" style="object-position:50% 38%" alt="広場をかけっこする子どもたち" loading="lazy"></figure><figure class="strip__item"><img src="halloween.jpg" style="object-position:55% 25%" alt="ハロウィンのお菓子をもらう子どもたち" loading="lazy"></figure><figure class="strip__item"><img src="nap.jpg" style="object-position:50% 50%" alt="お昼寝の時間" loading="lazy"></figure><figure class="strip__item"><img src="elder.jpg" style="object-position:40% 40%" alt="保育者と手をつなぐ子ども" loading="lazy"></figure><figure class="strip__item"><img src="harvest2.jpg" style="object-position:45% 55%" alt="畑の野菜にふれる子どもたち" loading="lazy"></figure><div class="strip__dup" aria-hidden="true"><figure class="strip__item"><img src="harvest1.jpg" style="object-position:35% 45%" alt="" aria-hidden="true" loading="lazy"></figure><figure class="strip__item"><img src="craft.jpg" style="object-position:72% 30%" alt="" aria-hidden="true" loading="lazy"></figure><figure class="strip__item"><img src="balloon.jpg" style="object-position:45% 70%" alt="" aria-hidden="true" loading="lazy"></figure><figure class="strip__item"><img src="cars.jpg" style="object-position:50% 50%" alt="" aria-hidden="true" loading="lazy"></figure><figure class="strip__item"><img src="lunch.jpg" style="object-position:45% 22%" alt="" aria-hidden="true" loading="lazy"></figure><figure class="strip__item"><img src="slide.jpg" style="object-position:50% 42%" alt="" aria-hidden="true" loading="lazy"></figure><figure class="strip__item"><img src="runin.jpg" style="object-position:50% 48%" alt="" aria-hidden="true" loading="lazy"></figure><figure class="strip__item"><img src="tree.jpg" style="object-position:45% 50%" alt="" aria-hidden="true" loading="lazy"></figure><figure class="strip__item"><img src="toys.jpg" style="object-position:50% 22%" alt="" aria-hidden="true" loading="lazy"></figure><figure class="strip__item"><img src="walk.jpg" style="object-position:45% 45%" alt="" aria-hidden="true" loading="lazy"></figure><figure class="strip__item"><img src="runout.jpg" style="object-position:50% 38%" alt="" aria-hidden="true" loading="lazy"></figure><figure class="strip__item"><img src="halloween.jpg" style="object-position:55% 25%" alt="" aria-hidden="true" loading="lazy"></figure><figure class="strip__item"><img src="nap.jpg" style="object-position:50% 50%" alt="" aria-hidden="true" loading="lazy"></figure><figure class="strip__item"><img src="elder.jpg" style="object-position:40% 40%" alt="" aria-hidden="true" loading="lazy"></figure><figure class="strip__item"><img src="harvest2.jpg" style="object-position:45% 55%" alt="" aria-hidden="true" loading="lazy"></figure></div></div>
+  <div class="strip__track"><figure class="strip__item"><img src="harvest1.jpg" style="object-position:35% 45%" alt="畑で野菜を収穫する子どもと保育者" loading="lazy"></figure><figure class="strip__item"><img src="craft.jpg" style="object-position:72% 30%" alt="ひまわりの絵を作る製作あそび" loading="lazy"></figure><figure class="strip__item"><img src="balloon.jpg" style="object-position:45% 70%" alt="バルーンの下で遊ぶ子どもたち" loading="lazy"></figure><figure class="strip__item"><img src="cars.jpg" style="object-position:50% 50%" alt="くるまのおもちゃで遊ぶ子どもたち" loading="lazy"></figure><figure class="strip__item"><img src="lunch.jpg" style="object-position:45% 22%" alt="給食を食べる子ども" loading="lazy"></figure><figure class="strip__item"><img src="slide.jpg" style="object-position:50% 42%" alt="すべり台で遊ぶ子どもたち" loading="lazy"></figure><figure class="strip__item"><img src="runin.jpg" style="object-position:50% 48%" alt="保育室をかけっこする子どもたち" loading="lazy"></figure><figure class="strip__item"><img src="tree.jpg" style="object-position:45% 50%" alt="お散歩で木の枝に手をのばす子ども" loading="lazy"></figure><figure class="strip__item"><img src="toys.jpg" style="object-position:50% 22%" alt="おもちゃで遊ぶ子どもたち" loading="lazy"></figure><figure class="strip__item"><img src="walk.jpg" style="object-position:45% 45%" alt="保育者と手をつないでお散歩" loading="lazy"></figure><figure class="strip__item"><img src="runout.jpg" style="object-position:50% 38%" alt="広場をかけっこする子どもたち" loading="lazy"></figure><figure class="strip__item"><img src="halloween.jpg" style="object-position:50% 30%" alt="ハロウィンのお菓子をもらう子どもたち" loading="lazy"></figure><figure class="strip__item"><img src="nap.jpg" style="object-position:50% 50%" alt="お昼寝の時間" loading="lazy"></figure><figure class="strip__item"><img src="elder.jpg" style="object-position:55% 55%" alt="おばあちゃんとふれあう子ども" loading="lazy"></figure><figure class="strip__item"><img src="harvest2.jpg" style="object-position:45% 55%" alt="畑の野菜にふれる子どもたち" loading="lazy"></figure><div class="strip__dup" aria-hidden="true"><figure class="strip__item"><img src="harvest1.jpg" style="object-position:35% 45%" alt="" aria-hidden="true" loading="lazy"></figure><figure class="strip__item"><img src="craft.jpg" style="object-position:72% 30%" alt="" aria-hidden="true" loading="lazy"></figure><figure class="strip__item"><img src="balloon.jpg" style="object-position:45% 70%" alt="" aria-hidden="true" loading="lazy"></figure><figure class="strip__item"><img src="cars.jpg" style="object-position:50% 50%" alt="" aria-hidden="true" loading="lazy"></figure><figure class="strip__item"><img src="lunch.jpg" style="object-position:45% 22%" alt="" aria-hidden="true" loading="lazy"></figure><figure class="strip__item"><img src="slide.jpg" style="object-position:50% 42%" alt="" aria-hidden="true" loading="lazy"></figure><figure class="strip__item"><img src="runin.jpg" style="object-position:50% 48%" alt="" aria-hidden="true" loading="lazy"></figure><figure class="strip__item"><img src="tree.jpg" style="object-position:45% 50%" alt="" aria-hidden="true" loading="lazy"></figure><figure class="strip__item"><img src="toys.jpg" style="object-position:50% 22%" alt="" aria-hidden="true" loading="lazy"></figure><figure class="strip__item"><img src="walk.jpg" style="object-position:45% 45%" alt="" aria-hidden="true" loading="lazy"></figure><figure class="strip__item"><img src="runout.jpg" style="object-position:50% 38%" alt="" aria-hidden="true" loading="lazy"></figure><figure class="strip__item"><img src="halloween.jpg" style="object-position:50% 30%" alt="" aria-hidden="true" loading="lazy"></figure><figure class="strip__item"><img src="nap.jpg" style="object-position:50% 50%" alt="" aria-hidden="true" loading="lazy"></figure><figure class="strip__item"><img src="elder.jpg" style="object-position:55% 55%" alt="" aria-hidden="true" loading="lazy"></figure><figure class="strip__item"><img src="harvest2.jpg" style="object-position:45% 55%" alt="" aria-hidden="true" loading="lazy"></figure></div></div>
 </section>
 <!-- ===== 最後のご相談 ===== -->
 <section class="cta" aria-labelledby="cta-title">
